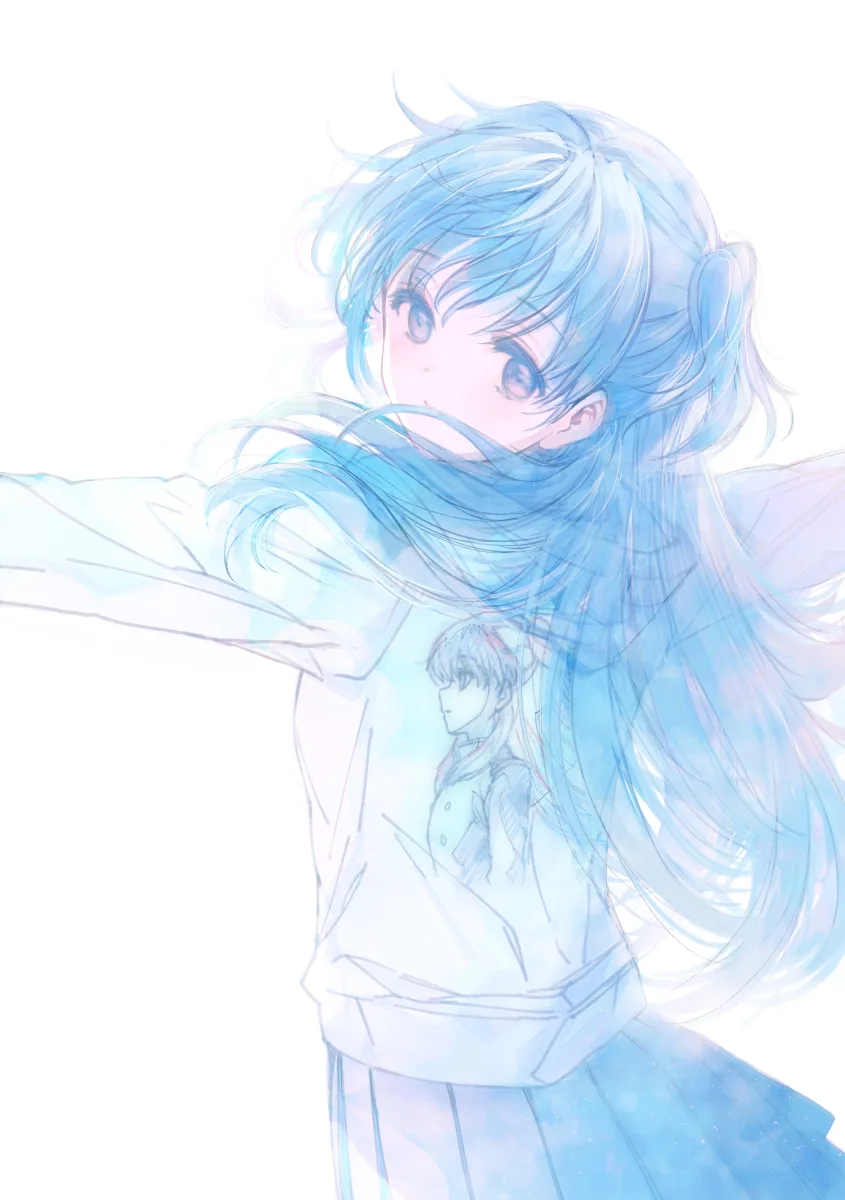
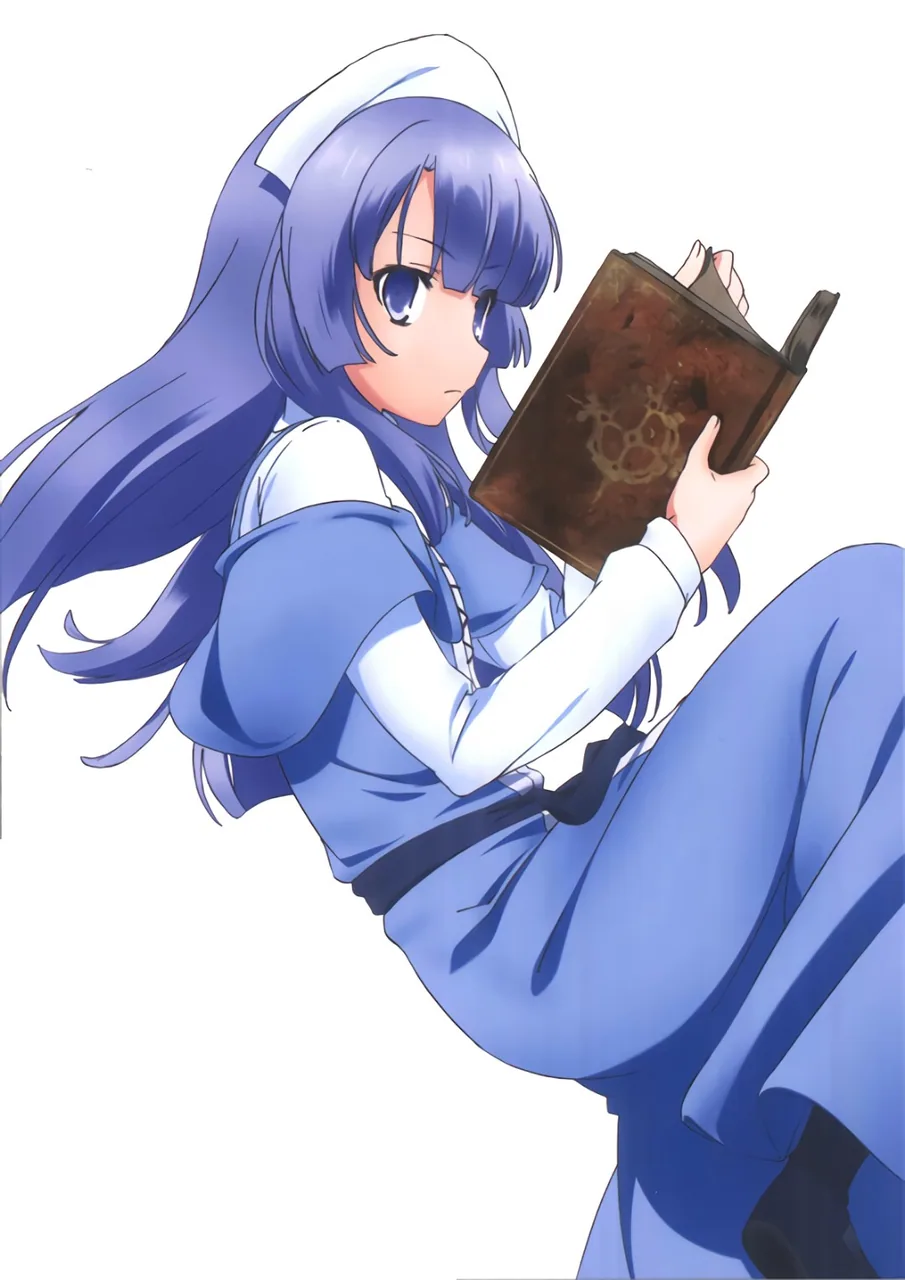
fix: 修正页面背景分层与刘海裁切

diff --git a/apps/web/lib/route-visuals.test.ts b/apps/web/lib/route-visuals.test.ts
@@ -2,40 +2,53 @@ import { existsSync } from "node:fs";
 import path from "node:path";
 import { describe, expect, it } from "vitest";
 
-import { ROUTE_VISUALS, getRouteVisualConfig } from "./route-visuals";
+import { ROUTE_VISUALS, SITE_HEADER_BACKGROUND, getRouteVisualConfig } from "./route-visuals";
 
 describe("route visuals", () => {
   const routeCases = [
-    ["/hub", "hub", "hub-hero.webp", "hub-content.webp"],
-    ["/hub/topic", "hub", "hub-hero.webp", "hub-content.webp"],
-    ["/search", "search", "search-content.webp", "search-content.webp"],
-    ["/search/results", "search", "search-content.webp", "search-content.webp"],
-    ["/write", "write", null, "write-workspace.webp"],
-    ["/write/draft", "write", null, "write-workspace.webp"],
-    ["/login", "auth", "auth-arrival.webp", "auth-arrival.webp"],
-    ["/reset-password/token", "auth", "auth-arrival.webp", "auth-arrival.webp"],
-    ["/about", "about", "about-community.webp", "about-community.webp"],
-    ["/about/team", "about", "about-community.webp", "about-community.webp"],
-    ["/user/alice", "profile", "profile-personal.webp", "profile-personal.webp"],
-    ["/profile/edit", "profile", "profile-personal.webp", "profile-personal.webp"],
-    ["/settings", "settings", "settings-calm.webp", "settings-calm.webp"],
-    ["/settings/account", "settings", "settings-calm.webp", "settings-calm.webp"],
-    ["/archive", "archive", "archive-hall.webp", "archive-hall.webp"],
-    ["/archive/2026", "archive", "archive-hall.webp", "archive-hall.webp"],
-    ["/tag/typescript", "tag", "tag-trace.webp", "tag-trace.webp"],
-    ["/post/hello-world", "post", "post-ruins.webp", "post-ruins.webp"],
+    ["/hub", "hub", "hub-content.webp"],
+    ["/hub/topic", "hub", "hub-content.webp"],
+    ["/search", "search", "search-content.webp"],
+    ["/search/results", "search", "search-content.webp"],
+    ["/write", "write", "write-workspace.webp"],
+    ["/write/draft", "write", "write-workspace.webp"],
+    ["/login", "auth", "auth-arrival.webp"],
+    ["/reset-password/token", "auth", "auth-arrival.webp"],
+    ["/about", "about", "about-community.webp"],
+    ["/about/team", "about", "about-community.webp"],
+    ["/user/alice", "profile", "profile-personal.webp"],
+    ["/profile/edit", "profile", "profile-personal.webp"],
+    ["/settings", "settings", "settings-calm.webp"],
+    ["/settings/account", "settings", "settings-calm.webp"],
+    ["/archive", "archive", "archive-hall.webp"],
+    ["/archive/2026", "archive", "archive-hall.webp"],
+    ["/tag/typescript", "tag", "tag-trace.webp"],
+    ["/post/hello-world", "post", "post-ruins.webp"],
   ] as const;
 
   it.each(routeCases)(
     "maps %s to %s",
-    (pathname, expectedId, expectedHeroFile, expectedPageFile) => {
+    (pathname, expectedId, expectedPageFile) => {
       const config = getRouteVisualConfig(pathname);
 
       expect(config?.id).toBe(expectedId);
-      expect(config?.hero?.image.split("/").at(-1) ?? null).toBe(expectedHeroFile);
       expect(config?.page.image.split("/").at(-1)).toBe(expectedPageFile);
     },
   );
+
+  it("keeps one shared white-background image in every ordinary site header", () => {
+    expect(SITE_HEADER_BACKGROUND.image).toBe("/images/site/backgrounds/hub-hero.webp");
+    expect(SITE_HEADER_BACKGROUND.positionDesktop).toBe("52% 0%");
+    expect(SITE_HEADER_BACKGROUND.positionMobile).toBe("72% 0%");
+  });
+
+  it("keeps the writing subject visible near the top of its page background", () => {
+    const write = ROUTE_VISUALS.find(({ id }) => id === "write");
+
+    expect(write?.page.positionDesktop).toBe("50% 4%");
+    expect(write?.page.positionMobile).toBe("52% 0%");
+    expect(write?.page.overlayAlpha).toBe(0.16);
+  });
 
   it.each(["/", "/agent", "/agent/history", "/chtholly", "/admin", "/admin/posts"])(
     "does not decorate excluded route %s",
@@ -70,10 +83,8 @@ describe("route visuals", () => {
     for (const config of ROUTE_VISUALS) {
       expect(Object.isFrozen(config)).toBe(true);
       expect(Object.isFrozen(config.page)).toBe(true);
-      if (config.hero) {
-        expect(Object.isFrozen(config.hero)).toBe(true);
-      }
     }
+    expect(Object.isFrozen(SITE_HEADER_BACKGROUND)).toBe(true);
   });
 
   it.each([
@@ -102,9 +113,7 @@ describe("route visuals", () => {
 
   it("references public files that exist", () => {
     const images = new Set(
-      ROUTE_VISUALS.flatMap(({ hero, page }) => [hero?.image, page.image]).filter(
-        (image): image is string => image !== undefined,
-      ),
+      [SITE_HEADER_BACKGROUND.image, ...ROUTE_VISUALS.map(({ page }) => page.image)],
     );
 
     for (const image of images) {

diff --git a/apps/web/lib/route-visuals.ts b/apps/web/lib/route-visuals.ts
@@ -9,7 +9,6 @@ export type VisualBackground = {
 
 export type RouteVisualConfig = {
   readonly id: string;
-  readonly hero?: VisualBackground;
   readonly page: VisualBackground;
 };
 
@@ -38,6 +37,8 @@ function routeVisual(config: RouteVisualConfig): RouteVisualConfig {
   return Object.freeze(config);
 }
 
+export const SITE_HEADER_BACKGROUND = background("hub-hero.webp", "52% 0%", "72% 0%", 0.18, 0);
+
 const searchBackground = background("search-content.webp", "52% 40%", "56% 40%", 0.2, 0.8);
 const authBackground = background("auth-arrival.webp", "34% 55%", "50% 48%", 0.2, 1);
 const aboutBackground = background("about-community.webp", "50% 34%", "50% 30%", 0.2, 1);
@@ -50,21 +51,20 @@ const postBackground = background("post-ruins.webp", "52% 38%", "50% 40%", 0.2, 
 export const ROUTE_VISUALS: readonly RouteVisualConfig[] = Object.freeze([
   routeVisual({
     id: "hub",
-    hero: background("hub-hero.webp", "52% 45%", "58% 44%", 0.18, 0),
     page: background("hub-content.webp", "50% 45%", "52% 42%", 0.18, 1, 0.96),
   }),
-  routeVisual({ id: "search", hero: searchBackground, page: searchBackground }),
+  routeVisual({ id: "search", page: searchBackground }),
   routeVisual({
     id: "write",
-    page: background("write-workspace.webp", "66% 38%", "68% 36%", 0.22, 0.5),
+    page: background("write-workspace.webp", "50% 4%", "52% 0%", 0.16, 0.5),
   }),
-  routeVisual({ id: "auth", hero: authBackground, page: authBackground }),
-  routeVisual({ id: "about", hero: aboutBackground, page: aboutBackground }),
-  routeVisual({ id: "profile", hero: profileBackground, page: profileBackground }),
-  routeVisual({ id: "settings", hero: settingsBackground, page: settingsBackground }),
-  routeVisual({ id: "archive", hero: archiveBackground, page: archiveBackground }),
-  routeVisual({ id: "tag", hero: tagBackground, page: tagBackground }),
-  routeVisual({ id: "post", hero: postBackground, page: postBackground }),
+  routeVisual({ id: "auth", page: authBackground }),
+  routeVisual({ id: "about", page: aboutBackground }),
+  routeVisual({ id: "profile", page: profileBackground }),
+  routeVisual({ id: "settings", page: settingsBackground }),
+  routeVisual({ id: "archive", page: archiveBackground }),
+  routeVisual({ id: "tag", page: tagBackground }),
+  routeVisual({ id: "post", page: postBackground }),
 ]);
 
 const ROUTE_SEGMENTS: ReadonlyArray<readonly [segment: string, visualId: string]> = [

diff --git a/apps/web/components/site/SiteChrome.test.tsx b/apps/web/components/site/SiteChrome.test.tsx
@@ -142,9 +142,17 @@ describe("SiteChrome", () => {
     expect(screen.getByTestId("content").parentElement).toHaveClass("max-w-6xl");
   });
 
-  it("passes route hero backgrounds to ordinary headers", () => {
+  it("keeps the shared white-background hero across decorated ordinary routes", () => {
     navigation.pathname = "/hub";
     const { rerender } = render(<SiteChrome><span data-testid="content">content</span></SiteChrome>);
+    expect(screen.getByTestId("site-header")).toHaveTextContent("/hub-hero.webp");
+
+    navigation.pathname = "/search";
+    rerender(<SiteChrome><span data-testid="content">content</span></SiteChrome>);
+    expect(screen.getByTestId("site-header")).toHaveTextContent("/hub-hero.webp");
+
+    navigation.pathname = "/login";
+    rerender(<SiteChrome><span data-testid="content">content</span></SiteChrome>);
     expect(screen.getByTestId("site-header")).toHaveTextContent("/hub-hero.webp");
 
     navigation.pathname = "/admin";

diff --git a/apps/web/components/site/SiteChrome.tsx b/apps/web/components/site/SiteChrome.tsx
@@ -8,7 +8,7 @@ import RoutePageBackground from "@/components/site/RoutePageBackground";
 import SiteHeader from "@/components/site/SiteHeader";
 import AgentPageBackground from "@/components/agent/AgentPageBackground";
 import { getAgentRuntimePolicy } from "@/components/agent/agentRuntimePolicy";
-import { getRouteVisualConfig } from "@/lib/route-visuals";
+import { SITE_HEADER_BACKGROUND, getRouteVisualConfig } from "@/lib/route-visuals";
 import { cn } from "@/lib/utils";
 
 export default function SiteChrome({ children }: { children: React.ReactNode }) {
@@ -29,7 +29,9 @@ export default function SiteChrome({ children }: { children: React.ReactNode }) 
     >
       <Navbar />
       <div className="h-[52px]" />
-      {!isFocusedPage && !isChthollyRoom && <SiteHeader background={routeVisual?.hero} />}
+      {!isFocusedPage && !isChthollyRoom && (
+        <SiteHeader background={routeVisual ? SITE_HEADER_BACKGROUND : undefined} />
+      )}
       <div className={cn("relative", policy.agentWorkspace ? "h-[calc(100vh-52px)] min-h-0 overflow-hidden" : "flex-1")}>
         {policy.agentWorkspace && <AgentPageBackground />}
         {routeVisual && <RoutePageBackground background={routeVisual.page} />}

diff --git a/apps/web/app/styles/route-visuals.css b/apps/web/app/styles/route-visuals.css
@@ -7,7 +7,7 @@
     --surface-sidebar-alpha: 0.48;
     --surface-reading-alpha: 0.78;
     --surface-auth-alpha: 0.78;
-    --surface-editor-alpha: 0.88;
+    --surface-editor-alpha: 0.78;
     --surface-backdrop-blur: 8px;
     --surface-border: color-mix(in srgb, var(--color-border) 62%, transparent);
     --surface-shadow: 0 9px 23px color-mix(in srgb, var(--color-text) 11%, transparent);

diff --git a/apps/web/test/route-visual-style.test.ts b/apps/web/test/route-visual-style.test.ts
@@ -17,7 +17,7 @@ describe("route visual style contract", () => {
 
   it("defines one shared high-transparency surface system", () => {
     expect(globals).not.toContain("--surface-card-alpha");
-    expect(visuals).toMatch(/\.site-shell--route-visual\s*\{[\s\S]*?--surface-nav-alpha:\s*0\.71;[\s\S]*?--surface-panel-alpha:\s*0\.52;[\s\S]*?--surface-card-alpha:\s*0\.54;[\s\S]*?--surface-sidebar-alpha:\s*0\.48;[\s\S]*?--surface-reading-alpha:\s*0\.78;[\s\S]*?--surface-backdrop-blur:\s*8px;/);
+    expect(visuals).toMatch(/\.site-shell--route-visual\s*\{[\s\S]*?--surface-nav-alpha:\s*0\.71;[\s\S]*?--surface-panel-alpha:\s*0\.52;[\s\S]*?--surface-card-alpha:\s*0\.54;[\s\S]*?--surface-sidebar-alpha:\s*0\.48;[\s\S]*?--surface-reading-alpha:\s*0\.78;[\s\S]*?--surface-editor-alpha:\s*0\.78;[\s\S]*?--surface-backdrop-blur:\s*8px;/);
     expect(visuals).not.toMatch(/data-route-visual[^\{]*\{[^}]*--color-[\w-]+\s*:/);
   });
 